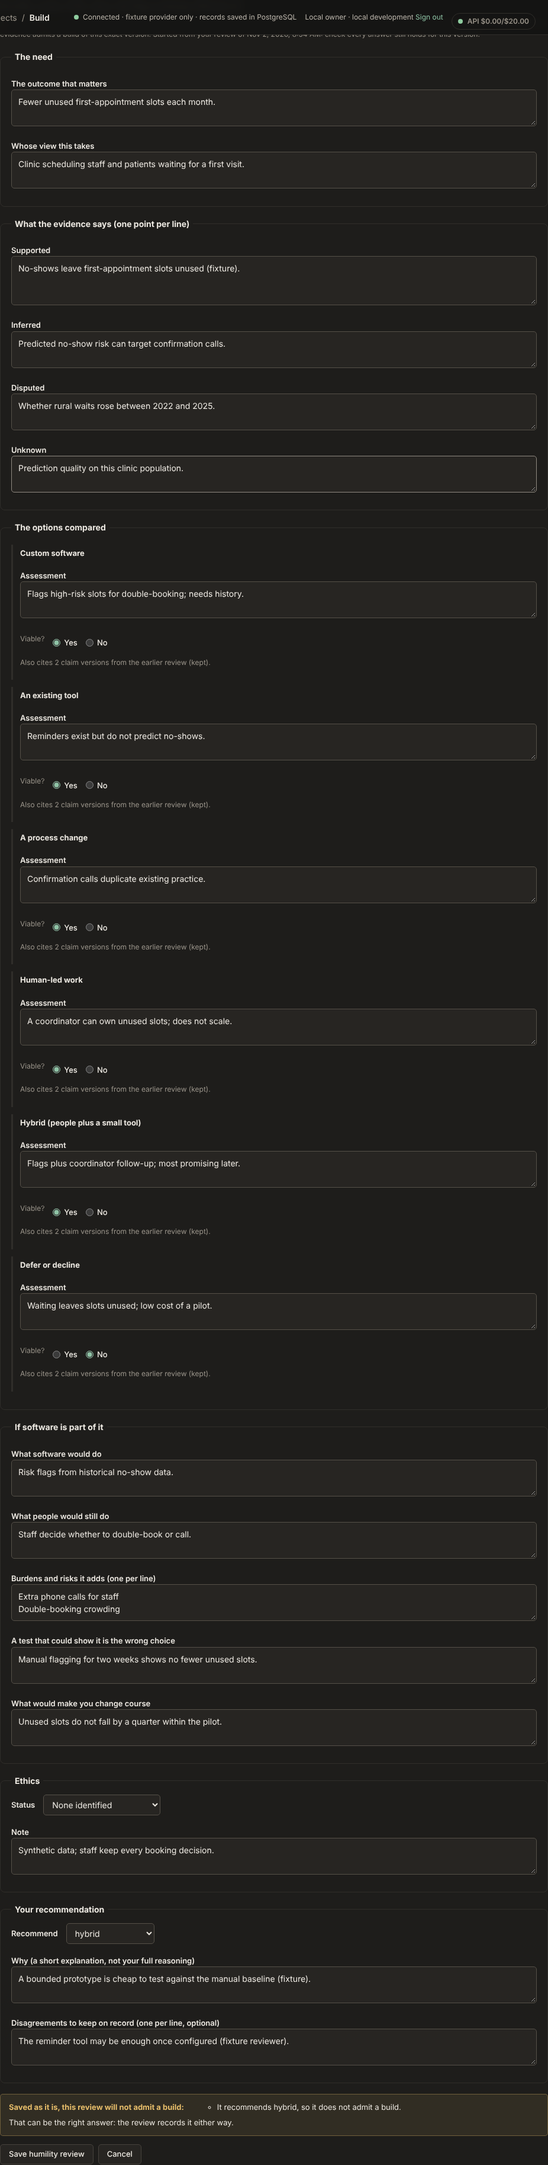
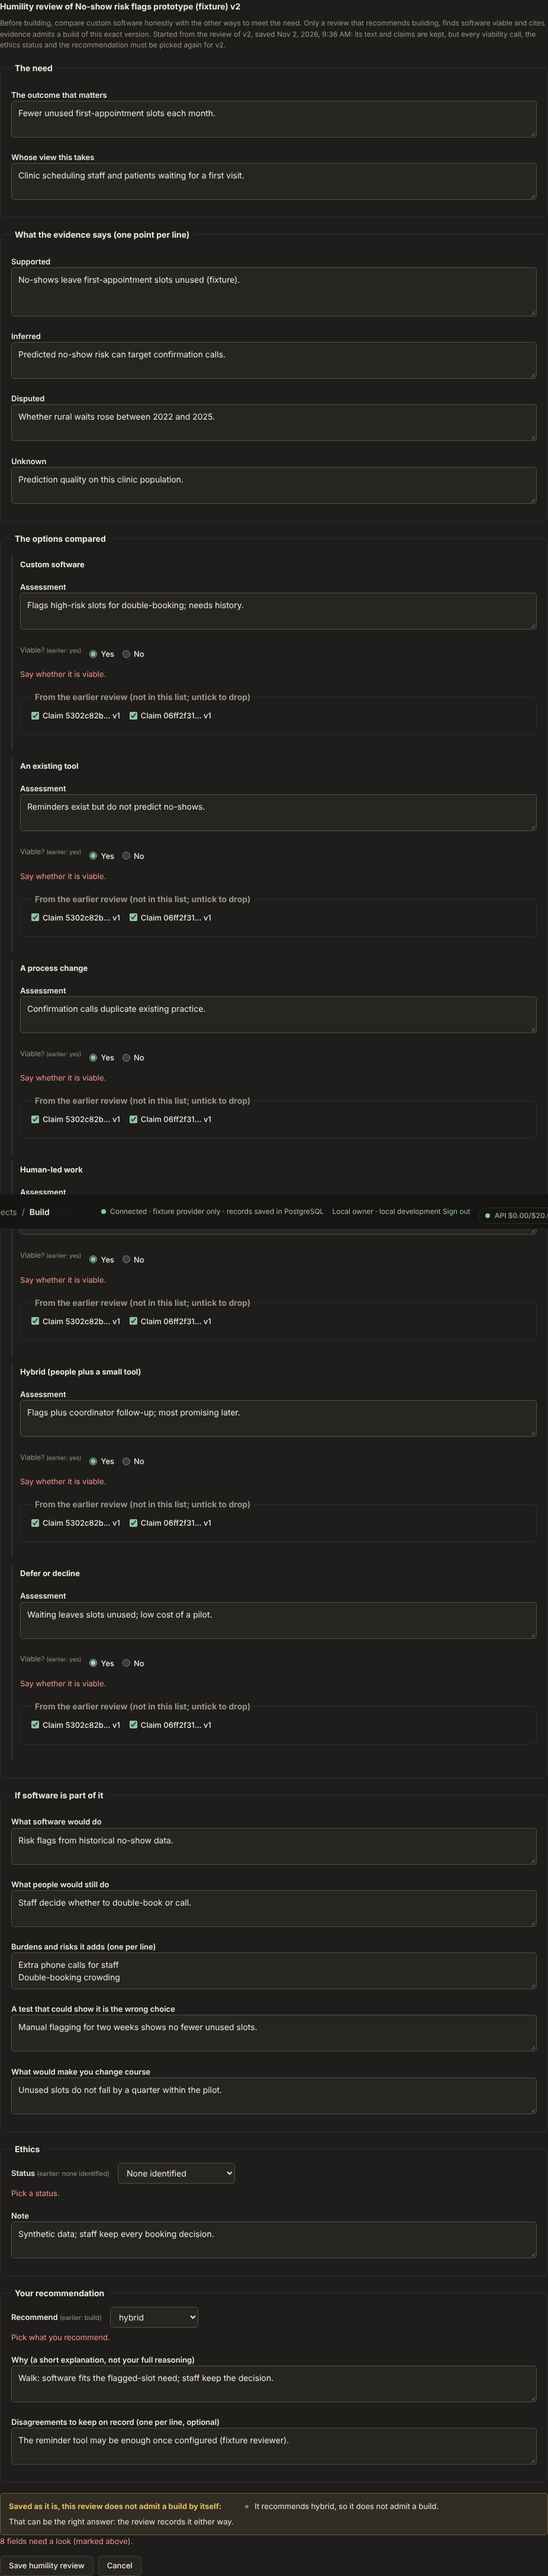
Fix PR #114 review: re-pick carried judgments, untick carried claims, safe retry
Claude-Session: https://claude.ai/code/session_01JTbuZps2QUTrcFNUfPTvF2

diff --git a/apps/web/src/humility.tsx b/apps/web/src/humility.tsx
@@ -14,6 +14,7 @@ import {
   OPTION_LABELS,
   draftFromBody,
   draftToBody,
+  earlierJudgments,
   emptyHumilityDraft,
   gatePreview,
   refKey,
@@ -64,6 +65,14 @@ export function HumilityForm({
   const [errors, setErrors] = useState<Record<string, string>>({});
   const [busy, setBusy] = useState(false);
   const [error, setError] = useState('');
+  const before = earlier
+    ? earlierJudgments(earlier.body as unknown as HumilityBodyShape)
+    : null;
+  const earlierSubject = earlier
+    ? (earlier.body as unknown as HumilityBodyShape).subject
+    : null;
+  const was = (v: string) =>
+    before ? <small className="earlier"> (earlier: {words(v)})</small> : null;
   const set = (f: (x: HumilityDraft) => void) =>
     setD((x) => {
       const y = structuredClone(x);
@@ -129,11 +138,12 @@ export function HumilityForm({
           body: out.body,
         },
       });
-      // Read the gate back: the server, not this form, decides what it admits.
+      // The review is saved now: a retry would make a second one, so close the form even if
+      // reading the gate back fails (the page reloads its verdict either way).
       await api(
         HumilityVerdictSchema,
         `${base}/entities/${review.id}/humility-gate`,
-      );
+      ).catch(() => undefined);
       saved();
     } catch (x) {
       setError(message(x));
@@ -156,7 +166,8 @@ export function HumilityForm({
         meet the need. Only a review that recommends building, finds software
         viable and cites evidence admits a build of this exact version.
         {earlier &&
-          ` Started from the review saved ${when(earlier.updated_at)}: check every answer still holds for this version.`}
+          earlierSubject &&
+          ` Started from the review of ${earlierSubject.id.toLowerCase() === subject.id.toLowerCase() ? `v${earlierSubject.version}` : `the option this builds (v${earlierSubject.version})`}, saved ${when(earlier.updated_at)}: its text and claims are kept, but every viability call, the ethics status and the recommendation must be picked again for v${subject.version}.`}
       </p>
       <fieldset>
         <legend>The need</legend>
@@ -212,7 +223,9 @@ export function HumilityForm({
                 className="sf-picks"
                 {...aria(`comparisons.${k}.viable`)}
               >
-                <span className="small">Viable?</span>
+                <span className="small">
+                  Viable?{was(before?.viable[k] ?? '')}
+                </span>
                 {(['yes', 'no'] as const).map((v) => (
                   <label key={v}>
                     <input
@@ -261,11 +274,27 @@ export function HumilityForm({
                 </details>
               )}
               {stray.length > 0 && (
-                <p className="small">
-                  Also cites {stray.length} claim version
-                  {stray.length === 1 ? '' : 's'} from the earlier review
-                  (kept).
-                </p>
+                <fieldset className="small">
+                  <legend>
+                    From the earlier review (not in this list; untick to drop)
+                  </legend>
+                  {stray.map((r) => (
+                    <label key={r} className="sf-check claim-pick">
+                      <input
+                        type="checkbox"
+                        checked
+                        onChange={() =>
+                          set((y) => {
+                            y.comparisons[k].evidence = y.comparisons[
+                              k
+                            ].evidence.filter((z) => z !== r);
+                          })
+                        }
+                      />
+                      Claim {r.slice(0, 8)}… v{r.slice(r.lastIndexOf('@') + 1)}
+                    </label>
+                  ))}
+                </fieldset>
               )}
               {err(`comparisons.${k}.evidence`)}
             </div>
@@ -303,7 +332,7 @@ export function HumilityForm({
         <legend>Ethics</legend>
         <div className="inline-form">
           <label htmlFor="hf-ethical.status" className="inline">
-            Status
+            Status{was(before?.ethical ?? '')}
           </label>
           <select
             id="hf-ethical.status"
@@ -330,7 +359,7 @@ export function HumilityForm({
         <legend>Your recommendation</legend>
         <div className="inline-form">
           <label htmlFor="hf-disposition" className="inline">
-            Recommend
+            Recommend{was(before?.disposition ?? '')}
           </label>
           <select
             id="hf-disposition"
@@ -367,7 +396,7 @@ export function HumilityForm({
           {preview.length ? (
             <>
               <strong>
-                Saved as it is, this review will not admit a build:
+                Saved as it is, this review does not admit a build by itself:
               </strong>
               <ul>
                 {preview.map((p) => (

diff --git a/apps/web/src/humility-fields.ts b/apps/web/src/humility-fields.ts
@@ -4,7 +4,9 @@
 // humility gate (packages/domain/src/oversight.ts) decides whether it admits a build.
 //
 // The disposition, every viability call and the ethics status are the owner's: nothing here
-// picks them. Starting from an earlier review copies only what the owner wrote there.
+// picks them. Starting from an earlier review copies only what the owner wrote there (text and
+// cited claims); its judgments are shown beside the fields but must be picked again, because the
+// gate binds a review to one exact version (review of PR #114, M-1).
 
 export const OPTION_KEYS = [
   'software',
@@ -127,7 +129,21 @@ export function emptyHumilityDraft(
   };
 }
 
-/** An earlier review, as the form edits it: everything the owner wrote, subject aside. */
+/** The judgments of an earlier review, to show beside the fields it leaves blank. */
+export function earlierJudgments(b: HumilityBodyShape) {
+  return {
+    viable: Object.fromEntries(
+      OPTION_KEYS.map((k) => [k, b.comparisons[k].viable ? 'yes' : 'no']),
+    ) as Record<OptionKey, 'yes' | 'no'>,
+    ethical: b.ethical.status,
+    disposition: b.disposition,
+  };
+}
+
+/**
+ * An earlier review, as the form edits it: the owner's text and cited claims, subject aside.
+ * Viability, ethics status and the recommendation are left blank to be picked again.
+ */
 export function draftFromBody(b: HumilityBodyShape): HumilityDraft {
   return {
     outcome_that_matters: b.outcome_that_matters,
@@ -141,7 +157,7 @@ export function draftFromBody(b: HumilityBodyShape): HumilityDraft {
         k,
         {
           assessment: b.comparisons[k].assessment,
-          viable: b.comparisons[k].viable ? 'yes' : 'no',
+          viable: '',
           evidence: b.comparisons[k].evidence_refs.map(refKey),
         },
       ]),
@@ -151,8 +167,8 @@ export function draftFromBody(b: HumilityBodyShape): HumilityDraft {
     burden_risks: b.burden_risks.join('\n'),
     disconfirming_test: b.disconfirming_test,
     change_course_trigger: b.change_course_trigger,
-    ethical: { ...b.ethical },
-    disposition: b.disposition,
+    ethical: { status: '', note: b.ethical.note },
+    disposition: '',
     rationale: b.rationale,
     dissent: b.dissent.join('\n'),
   };
@@ -170,14 +186,14 @@ export function draftToBody(
     const t = v.trim();
     if (!t) errors[key] = `Write ${what}.`;
     else if (t.length > NOTE)
-      errors[key] = `Keep it under ${NOTE} characters (now ${t.length}).`;
+      errors[key] = `Use at most ${NOTE} characters (now ${t.length}).`;
     return t;
   };
   const list = (key: string, v: string, max: number, each: number) => {
     const l = lines(v);
     if (l.length > max) errors[key] = `List at most ${max}, one per line.`;
     else if (l.some((x) => x.length > each))
-      errors[key] = `Keep each line under ${each} characters.`;
+      errors[key] = `Use at most ${each} characters per line.`;
     return l;
   };
   const evidence = {

diff --git a/tests/src/web-humility-form.test.ts b/tests/src/web-humility-form.test.ts
@@ -10,6 +10,7 @@ type Fields = {
   OPTION_KEYS: readonly string[];
   emptyHumilityDraft: (p?: Record<string, string>) => Draft;
   draftFromBody: (b: unknown) => Draft;
+  earlierJudgments: (b: unknown) => Record<string, unknown>;
   draftToBody: (
     d: Draft,
     subject: { id: string; version: number },
@@ -36,10 +37,40 @@ async function load(): Promise<Fields> {
 const subject = { id: '0b5e7a52-3c8e-4a9b-9a51-1f3d7c2e9a10', version: 3 };
 const claim = { id: '7f1c2d3e-4b5a-4c6d-8e9f-0a1b2c3d4e5f', version: 2 };
 
-test('an earlier review round-trips, moved to the new subject version', async () => {
+test('an earlier review keeps its text and claims, but every judgment is picked again (review M-1)', async () => {
   const f = await load();
   const before = fixtureHumilityReview({ id: subject.id, version: 1 }, [claim]);
-  const out = f.draftToBody(f.draftFromBody(before), subject);
+  const d = f.draftFromBody(before);
+  // Unedited, it cannot be saved: no carried judgment admits the new version by itself.
+  const unedited = f.draftToBody(d, subject);
+  assert.equal(unedited.body, null);
+  assert.deepEqual(
+    Object.keys(unedited.errors!).sort(),
+    [
+      ...f.OPTION_KEYS.map((k) => `comparisons.${k}.viable`),
+      'disposition',
+      'ethical.status',
+    ].sort(),
+  );
+  assert.equal(d.ethical.note, before.ethical.note);
+  assert.deepEqual(f.earlierJudgments(before), {
+    viable: Object.fromEntries(
+      f.OPTION_KEYS.map((k) => [
+        k,
+        (before.comparisons as any)[k].viable ? 'yes' : 'no',
+      ]),
+    ),
+    ethical: before.ethical.status,
+    disposition: before.disposition,
+  });
+  // Picked again, the rest round-trips unchanged onto the new version.
+  for (const k of f.OPTION_KEYS)
+    d.comparisons[k].viable = (before.comparisons as any)[k].viable
+      ? 'yes'
+      : 'no';
+  d.ethical.status = before.ethical.status;
+  d.disposition = before.disposition;
+  const out = f.draftToBody(d, subject);
   assert.equal(out.errors, null, JSON.stringify(out.errors));
   assert.deepEqual(out.body, { ...before, subject });
   assert.ok(HumilityBodySchema.safeParse(out.body).success);

diff --git a/apps/web/src/style.css b/apps/web/src/style.css
@@ -2374,3 +2374,9 @@ fieldset.flagged {
 .spec-form .inline-form {
   margin: 6px 0;
 }
+
+/* Earlier judgments shown beside humility fields that must be picked again. */
+.humility-form .earlier {
+  color: var(--muted);
+  font-weight: normal;
+}

diff --git a/tracking/BUILD_STATUS.md b/tracking/BUILD_STATUS.md
@@ -1,10 +1,26 @@
 ## Humility review in the app (audit item 4, piece 3 of 5) — November 2, 2026
 
-What now works: a humility review form, on Projects › Build for each active spec version ("Add a humility review" / "Review again", with the current review's recommendation shown on the spec row) and on Projects › Decide for build and hybrid options (the selection gate needs a review of the option's exact version before "select for build"). The form covers the whole `humility_review` body: the outcome and whose view, supported/inferred/disputed/unknown evidence (one per line), the six comparisons (assessment, viable yes/no, claims cited on Decide), software and human parts, burdens, a disconfirming test, a change-course trigger, ethics, the recommendation, a short rationale and dissent. It posts to the existing `POST entities` (kind `humility_review`, subject = that exact version) and reads `entities/{id}/humility-gate` back. It starts from the newest earlier review of the same spec (any version), else of the spec's option, moved to the current version; otherwise only the problem's affected group / spec audience and the brief's outcome measure are filled in. Viability, ethics status and the recommendation are never pre-picked. A preview says, before saving, whether the review will admit a build (mirroring `humilityGate`). The next-step line no longer says `pnpm cli humility-gate`. The gate's handling of hybrids (pilot F9) is unchanged.
+What now works: a humility review form, on Projects › Build for each active spec version ("Add a humility review" / "Review again", with the current review's recommendation shown on the spec row) and on Projects › Decide for build and hybrid options (the selection gate needs a review of the option's exact version before "select for build"). The form covers the whole `humility_review` body: the outcome and whose view, supported/inferred/disputed/unknown evidence (one per line), the six comparisons (assessment, viable yes/no, claims cited on Decide), software and human parts, burdens, a disconfirming test, a change-course trigger, ethics, the recommendation, a short rationale and dissent. It posts to the existing `POST entities` (kind `humility_review`, subject = that exact version) and reads `entities/{id}/humility-gate` back. It starts from the newest earlier review of the same spec (any version), else of the spec's option, moved to the current version; otherwise only the problem's affected group / spec audience and the brief's outcome measure are filled in. Viability, ethics status and the recommendation are never pre-picked, including when starting from an earlier review (see review fixes below). A preview says, before saving, whether the review will admit a build (mirroring `humilityGate`). The next-step line no longer says `pnpm cli humility-gate`. The gate's handling of hybrids (pilot F9) is unchanged.
 
 Checks run: `pnpm typecheck`; new `tests/src/web-humility-form.test.ts` (the fixture review round-trips onto a new version and parses with `HumilityBodySchema`; an empty draft asks for every viability, ethics and recommendation; the preview agrees with `humilityGate` on five bodies: passing, hybrid, software not viable, no evidence, serious ethics); updated `web-next-step.test.ts` (the desktop check now uses feedback-revise, the one main-path step still CLI-only). Browser walk `tracking/evidence/humility-form/walk.mjs` (throwaway database, `seed-selection`, $0): Build showed "No humility review of v2 yet"; the form started from the earlier review, the preview flipped to "will not admit a build" for hybrid and back; saving showed "Humility review of v2: build"; on Decide an empty review flagged 20 fields.
 
 Limits: on Build the comparisons cannot cite claims (no claims are loaded there; supported points count as evidence for the gate); a review is a new record each time, not a revision of the earlier one; not walked on the installed desktop app. Next: piece 4, model qualification from the Models page.
+
+Review fixes (review of PR #114 at dd279d3, `/mnt/project-files/reviews/PR114_HUMILITY_FORM_REVIEW_2026-11-02.md`):
+
+- M-1: starting from an earlier review used to copy its viability calls, ethics status and recommendation, so one unedited Save admitted a build of a new version. Those three are now left blank and must be picked again. The earlier answers are shown beside each field as "(earlier: …)". Text and cited claims are still carried over.
+- L-1: claims carried over from the earlier review that are not in the page's list are now listed with a box to untick them.
+- L-2: an unedited "Review again" can no longer be saved, because its judgments are blank.
+- L-3: once the review is saved, the form closes even if reading the gate back fails, so a retry can't make a second review.
+- L-4: the note now says which version the review started from, or that it came from the option the spec builds.
+- N-1: the walk picks "Review again" by its label instead of the last card.
+- N-2: length messages now say "at most".
+- N-3: the preview header says the review "does not admit a build by itself".
+
+Checks: the test "an earlier review keeps its text and claims, but every judgment is picked again" passes, and `web-humility-form` gives 3 pass. The walk was re-run on a fresh `seed-selection` workspace:
+
+- On Build, an unedited save flagged 8 fields, with the 8 earlier answers shown. After re-picking, it saved "Humility review of v2: build".
+- On Decide, "Review again" showed 6 carried-claim lists. Unticking one dropped it, and an unedited save flagged 8 fields.
 
 ## Write a spec in the app (audit item 4, piece 2 of 5) — November 2, 2026
 

diff --git a/tracking/SESSION_HANDOFF.md b/tracking/SESSION_HANDOFF.md
@@ -1,10 +1,26 @@
 ## Humility review in the app (audit item 4, piece 3 of 5) — November 2, 2026
 
-What now works: a humility review form, on Projects › Build for each active spec version ("Add a humility review" / "Review again", with the current review's recommendation shown on the spec row) and on Projects › Decide for build and hybrid options (the selection gate needs a review of the option's exact version before "select for build"). The form covers the whole `humility_review` body: the outcome and whose view, supported/inferred/disputed/unknown evidence (one per line), the six comparisons (assessment, viable yes/no, claims cited on Decide), software and human parts, burdens, a disconfirming test, a change-course trigger, ethics, the recommendation, a short rationale and dissent. It posts to the existing `POST entities` (kind `humility_review`, subject = that exact version) and reads `entities/{id}/humility-gate` back. It starts from the newest earlier review of the same spec (any version), else of the spec's option, moved to the current version; otherwise only the problem's affected group / spec audience and the brief's outcome measure are filled in. Viability, ethics status and the recommendation are never pre-picked. A preview says, before saving, whether the review will admit a build (mirroring `humilityGate`). The next-step line no longer says `pnpm cli humility-gate`. The gate's handling of hybrids (pilot F9) is unchanged.
+What now works: a humility review form, on Projects › Build for each active spec version ("Add a humility review" / "Review again", with the current review's recommendation shown on the spec row) and on Projects › Decide for build and hybrid options (the selection gate needs a review of the option's exact version before "select for build"). The form covers the whole `humility_review` body: the outcome and whose view, supported/inferred/disputed/unknown evidence (one per line), the six comparisons (assessment, viable yes/no, claims cited on Decide), software and human parts, burdens, a disconfirming test, a change-course trigger, ethics, the recommendation, a short rationale and dissent. It posts to the existing `POST entities` (kind `humility_review`, subject = that exact version) and reads `entities/{id}/humility-gate` back. It starts from the newest earlier review of the same spec (any version), else of the spec's option, moved to the current version; otherwise only the problem's affected group / spec audience and the brief's outcome measure are filled in. Viability, ethics status and the recommendation are never pre-picked, including when starting from an earlier review (see review fixes below). A preview says, before saving, whether the review will admit a build (mirroring `humilityGate`). The next-step line no longer says `pnpm cli humility-gate`. The gate's handling of hybrids (pilot F9) is unchanged.
 
 Checks run: `pnpm typecheck`; new `tests/src/web-humility-form.test.ts` (the fixture review round-trips onto a new version and parses with `HumilityBodySchema`; an empty draft asks for every viability, ethics and recommendation; the preview agrees with `humilityGate` on five bodies: passing, hybrid, software not viable, no evidence, serious ethics); updated `web-next-step.test.ts` (the desktop check now uses feedback-revise, the one main-path step still CLI-only). Browser walk `tracking/evidence/humility-form/walk.mjs` (throwaway database, `seed-selection`, $0): Build showed "No humility review of v2 yet"; the form started from the earlier review, the preview flipped to "will not admit a build" for hybrid and back; saving showed "Humility review of v2: build"; on Decide an empty review flagged 20 fields.
 
 Limits: on Build the comparisons cannot cite claims (no claims are loaded there; supported points count as evidence for the gate); a review is a new record each time, not a revision of the earlier one; not walked on the installed desktop app. Next: piece 4, model qualification from the Models page.
+
+Review fixes (review of PR #114 at dd279d3, `/mnt/project-files/reviews/PR114_HUMILITY_FORM_REVIEW_2026-11-02.md`):
+
+- M-1: starting from an earlier review used to copy its viability calls, ethics status and recommendation, so one unedited Save admitted a build of a new version. Those three are now left blank and must be picked again. The earlier answers are shown beside each field as "(earlier: …)". Text and cited claims are still carried over.
+- L-1: claims carried over from the earlier review that are not in the page's list are now listed with a box to untick them.
+- L-2: an unedited "Review again" can no longer be saved, because its judgments are blank.
+- L-3: once the review is saved, the form closes even if reading the gate back fails, so a retry can't make a second review.
+- L-4: the note now says which version the review started from, or that it came from the option the spec builds.
+- N-1: the walk picks "Review again" by its label instead of the last card.
+- N-2: length messages now say "at most".
+- N-3: the preview header says the review "does not admit a build by itself".
+
+Checks: the test "an earlier review keeps its text and claims, but every judgment is picked again" passes, and `web-humility-form` gives 3 pass. The walk was re-run on a fresh `seed-selection` workspace:
+
+- On Build, an unedited save flagged 8 fields, with the 8 earlier answers shown. After re-picking, it saved "Humility review of v2: build".
+- On Decide, "Review again" showed 6 carried-claim lists. Unticking one dropped it, and an unedited save flagged 8 fields.
 
 ## Write a spec in the app (audit item 4, piece 2 of 5) — November 2, 2026
 
